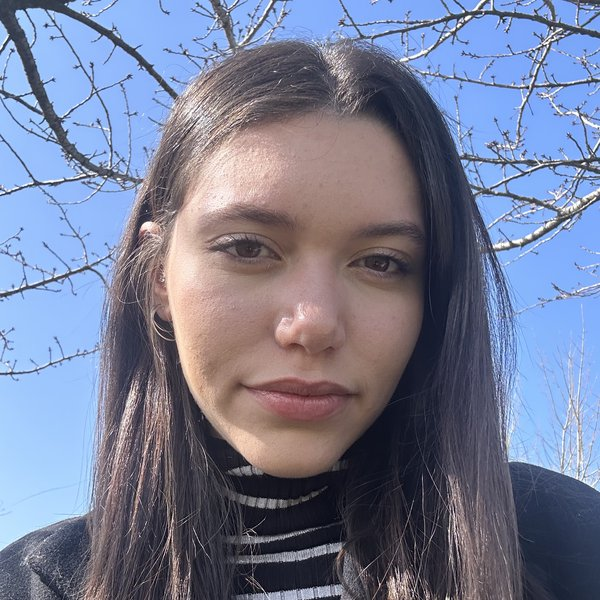
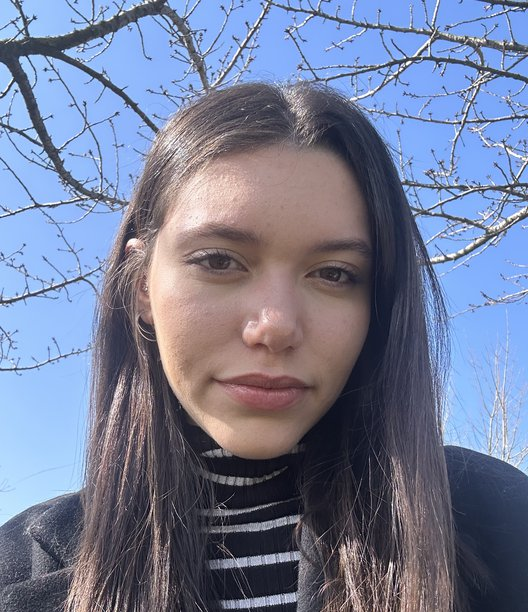
ui update

diff --git a/index.html b/index.html
@@ -3,120 +3,143 @@
 <head>
   <meta charset="utf-8">
   <meta name="viewport" content="width=device-width, initial-scale=1">
-  <title>Eylül Pelin Kılıç | Sabancı University</title>
-  <meta name="description" content="Eylül Pelin Kılıç is an undergraduate researcher at BAVLab, Sabancı University, supervised by Prof. Selim Balcısoy.">
+  <meta name="color-scheme" content="light dark">
+  <title>Eylül Pelin Kılıç | Computer Vision &amp; Machine Learning</title>
+  <meta name="description" content="Eylül Pelin Kılıç is a computer science undergraduate at Sabancı University working on 3D visual representations, personalized video understanding, and uncertainty in machine learning.">
+  <meta property="og:title" content="Eylül Pelin Kılıç | Research">
+  <meta property="og:description" content="Computer vision, visual representation learning, and machine learning. Research, education, and selected projects.">
+  <meta property="og:type" content="website">
   <link rel="icon" href="favicon.svg" type="image/svg+xml">
   <link rel="stylesheet" href="styles.css">
 </head>
-<body>
-  <main>
+<body id="top">
+  <a class="skip-link" href="#main">Skip to content</a>
+  <div class="page">
     <header class="profile">
-      <div>
+      <div class="identity">
+        <p class="eyebrow">Computer vision &amp; machine learning</p>
         <h1>Eylül Pelin Kılıç</h1>
-        <p>Hi! I am an undergraduate researcher at <a href="https://analyticslab.sabanciuniv.edu/"><strong>BAVLab</strong></a>, Sabancı University, supervised by <strong>Prof. Selim Balcısoy</strong>.</p>
-        <p>I am a fourth-year Computer Science and Engineering student at Sabancı University, with a minor in Mathematics. I am interested in computer vision, visual representation learning, and machine learning.</p>
-        <p>E-mail: pelin.kilic<strong>[at]</strong>sabanciuniv<strong>[dot]</strong>edu</p>
-        <nav class="contact" aria-label="Contact and profiles">
-          <a href="https://github.com/eylulpelinkilic">GitHub</a>
-          <a href="https://www.linkedin.com/in/eylulpelinkilic/">LinkedIn</a>
-          <a href="CV_Eylul_Pelin_Kilic.pdf">CV</a>
+        <p class="role">Undergraduate researcher</p>
+        <p class="affiliation"><a href="https://www.sabanciuniv.edu/en">Sabancı University</a><br>Computer Science &amp; Engineering · Mathematics minor</p>
+        <a class="email" href="mailto:pelin.kilic@sabanciuniv.edu">pelin.kilic@sabanciuniv.edu</a>
+        <nav class="social-links" aria-label="Contact and profiles">
+          <a class="pill" href="https://github.com/eylulpelinkilic"><svg viewBox="0 0 24 24" aria-hidden="true"><path d="m8 5-6 7 6 7m8-14 6 7-6 7M14 3l-4 18"/></svg>GitHub</a>
+          <a class="pill" href="https://www.linkedin.com/in/eylulpelinkilic/"><svg viewBox="0 0 24 24" aria-hidden="true"><rect x="3" y="3" width="18" height="18" rx="2"/><path d="M7 10v7m0-10v.1M11 17v-7m0 3c0-4 6-4 6 0v4"/></svg>LinkedIn</a>
+          <a class="pill cv-link" href="CV_Eylul_Pelin_Kilic.pdf" target="_blank" rel="noopener"><svg viewBox="0 0 24 24" aria-hidden="true"><path d="M14 3H5v18h14V8l-5-5v5h5M8 12h8m-8 4h6"/></svg>Curriculum vitae<span class="file-label">PDF</span></a>
         </nav>
       </div>
-      <img class="portrait" src="profile.jpg" alt="Eylül Pelin Kılıç" width="275" height="275">
+      <img class="portrait" src="profile.jpg" width="176" height="204" alt="Eylül Pelin Kılıç">
     </header>
 
-    <section>
-      <h2>News</h2>
-      <ul class="news">
-        <li><time>2026.05</time><span>Started as an Undergraduate Research Assistant at the University of Cambridge, advised by Prof. Cengiz Öztireli.</span></li>
-        <li><time>2026.05</time><span>Started as an Undergraduate Research Assistant at the National University of Singapore, advised by Prof. Angela Yao.</span></li>
-        <li><time>2026.01</time><span>Started my exchange semester at the National University of Singapore.</span></li>
-      </ul>
-      <details class="news-archive">
-        <summary>Older news</summary>
-        <ul class="news">
-          <li><time>2024.09</time><span>Became President of Google Developer Groups On Campus at Sabancı University.</span></li>
-          <li><time>2023.09</time><span>Selected as a Challenger by the Turkish Entrepreneurship Foundation (80 among 149,766 applicants).</span></li>
-        </ul>
-      </details>
-    </section>
+    <nav class="section-nav" aria-label="Page sections">
+      <a href="#about">About</a><a href="#research">Research</a><a href="#education">Education</a><a href="#teaching">Teaching</a><a href="#activities">Activities</a>
+    </nav>
 
-    <section>
-      <h2>Research</h2>
-      <ol class="research">
-        <li>
-          <img class="preview" src="clinical-uncertainty.svg" alt="" width="144" height="96">
-          <div>
-            <h3>Uncertainty representations for clinical machine learning</h3>
-            <p class="who">Advisor: Prof. Selim Balcısoy (BAVLab) · Siyami Ersek Cardiovascular Surgery Research Hospital</p>
-            <p class="what">ML pipelines for differentiating clinically overlapping cardiac conditions, with entropy-based uncertainty representations.</p>
-            <p class="when">2024 – Present</p>
-          </div>
-        </li>
-        <li>
-          <img class="preview" src="geometry-color.svg" alt="" width="144" height="96">
-          <div>
-            <h3>Geometry-aware representations for colored point clouds</h3>
-            <p class="who">Advisor: Prof. Cengiz Öztireli · University of Cambridge</p>
-            <p class="what">Representations that jointly model 3D structure and surface color in point clouds.</p>
-            <p class="when">May 2026 – Present</p>
-          </div>
-        </li>
-        <li>
-          <img class="preview" src="video-memory.svg" alt="" width="144" height="96">
-          <div>
-            <h3>Personalized video understanding</h3>
-            <p class="who">Advisor: Prof. Angela Yao · National University of Singapore</p>
-            <p class="what">Personalized VideoQA in online and streaming settings, with test-time adaptation and memory.</p>
-            <p class="when">May 2026 – Present</p>
-          </div>
-        </li>
-      </ol>
-    </section>
+    <main id="main">
+      <section id="about" aria-labelledby="about-heading">
+        <h2 id="about-heading">Biography</h2>
+        <div class="prose">
+          <p>I am a fourth-year Computer Science and Engineering undergraduate at <a href="https://www.sabanciuniv.edu/en">Sabancı University</a>, with a minor in Mathematics. My research interests lie in <strong>computer vision, visual representation learning, and machine learning</strong>.</p>
+          <p>I am an undergraduate researcher at <a href="https://analyticslab.sabanciuniv.edu/">BAVLab</a>, Sabancı University, supervised by <strong>Prof. Selim Balcısoy</strong>, working on uncertainty representations and machine learning for clinical decision support. I also work with Prof. Cengiz Öztireli at the University of Cambridge on geometry-aware representations for colored point clouds, and with Prof. Angela Yao at the National University of Singapore on personalized video understanding.</p>
+          <p>I am particularly interested in how geometry, appearance, and context can be brought together to learn useful visual representations.</p>
+        </div>
+      </section>
 
-    <section>
-      <h2>Selected course projects</h2>
-      <ul class="projects">
-        <li>
+      <section id="research" aria-labelledby="research-heading">
+        <h2 id="research-heading">Research experience</h2>
+        <div class="research-list">
+          <article class="research-item">
+            <img class="research-art" src="geometry-color.svg" width="420" height="280" alt="Conceptual illustration of a point cloud combining geometry and color">
+            <div class="research-content">
+              <div class="item-topline"><span class="institution">University of Cambridge</span><span class="date">May 2026 — Present</span></div>
+              <h3>Geometry-aware representations for colored point clouds</h3>
+              <p class="advisor">Undergraduate Research Assistant · Advisor: Prof. Cengiz Öztireli</p>
+              <p>Developing representations that jointly model 3D structure and surface color, with the aim of learning transferable geometry and appearance features across 3D vision tasks.</p>
+              <div class="keywords"><span>3D vision</span><span>Representation learning</span><span>Geometry &amp; color</span></div>
+            </div>
+          </article>
+          <article class="research-item">
+            <img class="research-art" src="video-memory.svg" width="420" height="280" alt="Conceptual illustration of video observations feeding a persistent memory">
+            <div class="research-content">
+              <div class="item-topline"><span class="institution">National University of Singapore</span><span class="date">May 2026 — Present</span></div>
+              <h3>Personalized video understanding</h3>
+              <p class="advisor">Undergraduate Research Assistant · Advisor: Prof. Angela Yao</p>
+              <p>Developing personalized VideoQA models for online and streaming settings. Investigating agentic test-time adaptation and memory mechanisms for user-specific, evolving video context.</p>
+              <div class="keywords"><span>Vision-language models</span><span>Streaming VideoQA</span><span>Memory</span></div>
+            </div>
+          </article>
+          <article class="research-item">
+            <img class="research-art" src="clinical-uncertainty.svg" width="420" height="280" alt="Conceptual illustration linking clinical observations, uncertainty, and decision support">
+            <div class="research-content">
+              <div class="item-topline"><span class="institution">Siyami Ersek Cardiovascular Surgery Research Hospital</span><span class="date">2024 — Present</span></div>
+              <h3>Uncertainty representations for clinical machine learning</h3>
+              <p class="advisor">Undergraduate Research Assistant · Advisor: Prof. Selim Balcısoy (BAVLab, Sabancı University)</p>
+              <p>Developed machine learning pipelines to distinguish clinically overlapping cardiac conditions. Designed entropy-based uncertainty representations and evaluated models through cross-validation and robustness analysis.</p>
+              <div class="keywords"><span>Uncertainty</span><span>Information theory</span><span>Clinical ML</span></div>
+            </div>
+          </article>
+        </div>
+      </section>
+
+      <section id="education" aria-labelledby="education-heading">
+        <h2 id="education-heading">Education</h2>
+        <div class="education-list">
+          <article class="education-item">
+            <div class="school-mark logo-mark su-mark" aria-hidden="true"><img src="sabanci.png" alt=""></div>
+            <div><h3>Sabancı University</h3><p>B.S. in Computer Science and Engineering</p><p class="detail">CGPA: <strong>3.92 / 4.00</strong> · Merit-Based Full Scholarship</p></div>
+            <p class="education-date">Sep. 2022 — Jun. 2027<br><span>Expected · Istanbul, Türkiye</span></p>
+          </article>
+          <article class="education-item">
+            <div class="school-mark math-mark" aria-hidden="true">∑</div>
+            <div><h3>Sabancı University</h3><p>Minor in Mathematics</p><p class="detail">CGPA: <strong>4.00 / 4.00</strong> · Top-ranked student in the minor cohort</p></div>
+            <p class="education-date">Sep. 2023 — Jun. 2027<br><span>Expected · Istanbul, Türkiye</span></p>
+          </article>
+          <article class="education-item">
+            <div class="school-mark logo-mark" aria-hidden="true"><img src="nus.png" alt=""></div>
+            <div><h3>National University of Singapore</h3><p>Exchange student</p><p class="detail">Computer Vision and Pattern Recognition, Information Theory,<br class="desktop-break"> Logic for Proofs and Programs</p></div>
+            <p class="education-date">Jan. — May 2026<br><span>Singapore</span></p>
+          </article>
+        </div>
+      </section>
+
+      <section id="projects" aria-labelledby="projects-heading">
+        <h2 id="projects-heading">Selected course projects</h2>
+        <article class="course-project">
+          <div class="item-topline"><span class="institution">CS419 · Digital Image and Video Processing</span><span class="date">Sep. 2025 — Jan. 2026</span></div>
           <h3>Morphology-based cell mitosis detection</h3>
-          <p class="who">CS419 · Digital Image and Video Processing · Sabancı University</p>
-          <p class="what">An unsupervised, label-free framework for detecting mitotic cells in DIC microscopy images, using morphology-based segmentation and an entropy-weighted mitosis score. Improved F1 from 0.67 to 0.87 over uniform weighting on <span class="nowrap">DIC-C2DH-HeLa</span>.</p>
-          <p class="when">Sep 2025 – Jan 2026</p>
-        </li>
-        <li>
+          <p>An unsupervised, label-free framework for detecting mitotic cells in DIC microscopy images. Combines morphology-based segmentation with an interpretable mitosis score using entropy-weighted shape and intensity features.</p>
+          <p class="result"><strong>F1: 0.67 → 0.87</strong><span>Entropy-based weighting vs. uniform weighting · DIC-C2DH-HeLa dataset</span></p>
+        </article>
+        <article class="course-project">
+          <div class="item-topline"><span class="institution">DSA210 · Introduction to Data Science</span><span class="date">Spring 2025</span></div>
           <h3>Deck composition and match outcome prediction</h3>
-          <p class="who">DSA210 · Introduction to Data Science · Sabancı University</p>
-          <p class="what">Collected 1,500 matches from 50 players of a competitive online strategy game through its public API and engineered ~350 deck-composition features (card presence, card-type counts, average resource cost). Hypothesis tests showed that lower average resource cost, card-type variety, and tank–support combinations are significantly associated with winning; compared regularized logistic regression, random forests, and gradient boosting, with and without PCA.</p>
-          <p class="when">Spring 2025</p>
-        </li>
-      </ul>
-    </section>
+          <p>Collected 1,500 matches from 50 players of a competitive online strategy game through its public API and engineered ~350 deck-composition features. Hypothesis tests showed that lower average resource cost, card-type variety, and tank–support combinations are significantly associated with winning. Compared regularized logistic regression, random forests, and gradient boosting, with and without PCA.</p>
+          <p class="result"><strong>p &lt; 0.001</strong><span>Lower average resource cost in winning matches · Mann–Whitney U test</span></p>
+        </article>
+      </section>
 
-    <section>
-      <details class="experience">
-        <summary>Experience &amp; education</summary>
-        <h3>Research &amp; work</h3>
-        <ul>
-          <li><img class="logo" src="sabanci.png" alt=""><div><strong>BAVLab, Sabancı University</strong> · Undergraduate Researcher<span class="dates">2024 – Present · Istanbul</span></div></li>
-          <li><span class="logo"></span><div><strong>University of Cambridge</strong> · Undergraduate Research Assistant<span class="dates">May 2026 – Present · Remote</span></div></li>
-          <li><img class="logo" src="nus.png" alt=""><div><strong>National University of Singapore</strong> · Undergraduate Research Assistant<span class="dates">May 2026 – Present · Remote</span></div></li>
-          <li><img class="logo" src="sabanci.png" alt=""><div><strong>Sabancı University</strong> · Learning Assistant (CS201, CS204, CS300)<span class="dates">2024 – 2025 · Istanbul</span></div></li>
-          <li><span class="logo"></span><div><strong>Mitsubishi Electric</strong> · Information Technologies Intern<span class="dates">Jul 2024 · Manisa</span></div></li>
-        </ul>
-        <h3>Education</h3>
-        <ul>
-          <li><img class="logo" src="sabanci.png" alt=""><div><strong>Sabancı University</strong> · B.S. Computer Science and Engineering, Minor in Mathematics<span class="dates">2022 – 2027 (expected) · Istanbul</span></div></li>
-          <li><img class="logo" src="nus.png" alt=""><div><strong>National University of Singapore</strong> · Exchange<span class="dates">Jan 2026 – May 2026 · Singapore</span></div></li>
-        </ul>
-        <h3>Activities</h3>
-        <ul>
-          <li><span class="logo"></span><div><strong>Google Developer Groups On Campus, Sabancı University</strong> · President<span class="dates">Sep 2024 – Jun 2025 · Istanbul</span></div></li>
-          <li><span class="logo"></span><div><strong>Turkish Entrepreneurship Foundation</strong> · Challenger<span class="dates">Sep 2023 – Jun 2024</span></div></li>
-        </ul>
-      </details>
-    </section>
+      <section id="teaching" aria-labelledby="teaching-heading">
+        <h2 id="teaching-heading">Teaching</h2>
+        <div class="dated-row"><p class="date">2024 — 2025</p><div><h3>Learning Assistant · Sabancı University</h3><p>CS201 — Introduction to Programming<br>CS204 — Advanced Programming<br>CS300 — Data Structures</p><p class="detail">Led recitations and mentored students on algorithm design, memory management, and complexity analysis.</p></div></div>
+      </section>
 
-    <footer>© 2026 Eylül Pelin Kılıç · Last updated November 2026</footer>
-  </main>
+      <section id="honors" aria-labelledby="honors-heading">
+        <h2 id="honors-heading">Honors &amp; distinctions</h2>
+        <ul class="honor-list">
+          <li><strong>Merit-Based Full Scholarship</strong><span>Sabancı University · Top 0.01% nationwide in the Turkish University Entrance Exam</span></li>
+          <li><strong>Top-ranked Mathematics minor student</strong><span>Sabancı University · CGPA 4.00 / 4.00</span></li>
+          <li><strong>Challenger fellowship</strong><span>Turkish Entrepreneurship Foundation · 80 selected among 149,766 applicants</span></li>
+        </ul>
+      </section>
+
+      <section id="activities" aria-labelledby="activities-heading">
+        <h2 id="activities-heading">Activities &amp; experience</h2>
+        <div class="dated-row"><p class="date">2024 — 2025</p><div><h3>President · Google Developer Groups On Campus</h3><p>Led the Sabancı University chapter and organized AI/ML workshops and developer events.</p></div></div>
+        <div class="dated-row"><p class="date">July 2024</p><div><h3>Information Technologies Intern · Mitsubishi Electric</h3><p>Automated reporting with Power Automate and Power BI, and built a mobile data-entry application integrated with SAP for factory operations.</p></div></div>
+        <div class="dated-row"><p class="date">August 2023</p><div><h3>Volunteer Instructor · Sri Lanka</h3><p>Taught mathematics and computing in a resource-constrained primary school.</p></div></div>
+      </section>
+    </main>
+    <footer><p>© 2026 Eylül Pelin Kılıç <span class="footer-separator">·</span> <span>Last updated November 2026</span></p><a href="#top">Back to top ↑</a></footer>
+  </div>
 </body>
 </html>

diff --git a/styles.css b/styles.css
@@ -1,56 +1,11 @@
-:root { font-family: Arial, Helvetica, sans-serif; color: #262626; background: #fff; font-size: 16px; line-height: 1.6; }
-* { box-sizing: border-box; }
-body { margin: 0; }
-main { max-width: 820px; margin: 64px auto 40px; padding: 0 28px; }
-a { color: #175a96; text-decoration: none; text-underline-offset: 3px; }
-a:hover { text-decoration: underline; }
-h1 { margin: 0 0 20px; font-size: 30px; font-weight: 500; line-height: 1.2; }
-h2 { margin: 0 0 16px; font-size: 21px; font-weight: 500; line-height: 1.3; }
-h3 { font-size: 16px; margin: 24px 0 8px; }
-p { margin: 0 0 14px; }
-strong { font-weight: 600; }
-ul, ol { padding: 0; margin: 0; list-style: none; }
-section { margin: 0 0 34px; }
-
-/* Header */
-.profile { display: grid; grid-template-columns: minmax(0, 1fr) 275px; align-items: start; gap: 32px; margin-bottom: 42px; }
-.portrait { display: block; width: 275px; height: 275px; object-fit: cover; border-radius: 2px; margin-top: 4px; }
-.contact { display: flex; flex-wrap: wrap; gap: 6px 16px; font-size: 15px; }
-
-/* News */
-.news li { display: grid; grid-template-columns: 76px minmax(0, 1fr); gap: 12px; margin-bottom: 9px; font-size: 15px; }
-time { color: #666; font-variant-numeric: tabular-nums; }
-summary { width: fit-content; cursor: pointer; color: #175a96; }
-.news-archive { margin-top: 12px; font-size: 14px; }
-.news-archive[open] summary { margin-bottom: 14px; }
-
-/* Research */
-.research li { display: grid; grid-template-columns: 144px minmax(0, 1fr); gap: 22px; align-items: center; margin-bottom: 25px; }
-.preview { display: block; width: 144px; height: auto; border-radius: 3px; }
-.research h3, .projects h3 { margin: 0 0 4px; line-height: 1.45; }
-.research p, .projects p { margin: 0 0 2px; font-size: 14px; }
-.who { color: #494949; }
-.when { font-style: italic; }
-
-/* Course projects */
-.projects li { margin-bottom: 22px; }
-.nowrap { white-space: nowrap; }
-
-/* Experience */
-.experience { font-size: 15px; }
-.experience > summary { font-size: 18px; }
-.experience li { display: flex; align-items: center; gap: 14px; margin-bottom: 16px; }
-.logo { flex: 0 0 64px; width: 64px; height: 40px; object-fit: contain; }
-.dates { display: block; color: #666; font-size: 14px; }
-
-footer { border-top: 1px solid #e5e5e5; padding-top: 18px; margin-top: 40px; font-size: 14px; color: #737373; }
-
-@media (max-width: 600px) {
-  main { margin-top: 32px; padding: 0 22px; }
-  .profile { grid-template-columns: 1fr; gap: 22px; }
-  .portrait { grid-row: 1; width: 200px; height: 200px; }
-  h1 { font-size: 28px; }
-  .news li { grid-template-columns: 65px minmax(0, 1fr); gap: 8px; }
-  .research li { grid-template-columns: 104px minmax(0, 1fr); gap: 16px; align-items: start; }
-  .preview { width: 104px; }
-}
+:root{color-scheme:light dark;--background:#fbfaf8;--text:#24262c;--muted:#626875;--accent:#315a8d;--line:#e1e2e3;--surface:#fff;--soft:#eff3f7;--serif:Georgia,'Times New Roman',serif;--sans:Inter,-apple-system,BlinkMacSystemFont,'Segoe UI',Arial,sans-serif}
+*{box-sizing:border-box}html{scroll-behavior:smooth;scroll-padding-top:24px}body{margin:0;background:var(--background);color:var(--text);font:15px/1.7 var(--sans);-webkit-font-smoothing:antialiased}a{color:var(--accent);text-decoration:none}a:hover{text-decoration:underline;text-underline-offset:4px}a:focus-visible{outline:2px solid var(--accent);outline-offset:5px;border-radius:3px}::selection{background:#d6e4f5;color:#153558}p{margin:0 0 12px}strong{font-weight:600}.page{max-width:960px;padding:76px 32px 30px;margin:auto}.skip-link{position:absolute;left:16px;top:-80px;padding:8px 16px;background:var(--surface);z-index:10}.skip-link:focus{top:16px}
+.profile{display:flex;justify-content:space-between;align-items:center;gap:44px}.identity{min-width:0}.eyebrow{color:var(--accent);font-size:10px;letter-spacing:.17em;text-transform:uppercase;font-weight:600;margin-bottom:15px}h1{font-family:var(--serif);font-size:clamp(32px,5.2vw,45px);font-weight:500;line-height:1.18;letter-spacing:-1.1px;margin:0 0 10px}.role{font-size:14px;color:var(--muted);margin-bottom:17px}.affiliation{font-size:14px;line-height:1.7;margin-bottom:6px}.affiliation a{color:var(--text);font-weight:500}.email{font-size:13px;overflow-wrap:anywhere}.portrait{width:176px;height:204px;flex-shrink:0;object-fit:cover;border-radius:12px;border:1px solid var(--line)}.social-links{display:flex;flex-wrap:wrap;gap:8px;margin-top:20px}.pill{display:inline-flex;align-items:center;gap:7px;border:1px solid var(--line);border-radius:20px;padding:5px 11px;background:var(--surface);font-size:12px;color:var(--text);transition:background .2s,border-color .2s}.pill:hover{background:var(--soft);border-color:var(--accent);text-decoration:none}.pill svg{width:13px;height:13px;stroke:currentColor;stroke-width:1.6;fill:none;stroke-linecap:round;stroke-linejoin:round}.file-label{font-size:9px;color:var(--muted);letter-spacing:.05em}.section-nav{display:flex;flex-wrap:wrap;gap:12px 27px;padding:20px 0;margin-top:39px;border-top:1px solid var(--line);border-bottom:1px solid var(--line)}.section-nav a{font-size:12px;color:var(--muted)}.section-nav a:hover{color:var(--accent)}
+section{margin-top:43px}h2{display:flex;align-items:center;gap:19px;font:600 11px/1.4 var(--sans);text-transform:uppercase;letter-spacing:.16em;color:var(--muted);margin:0 0 22px}h2::after{content:'';height:1px;background:var(--line);flex:1}h3{font-family:var(--serif);font-weight:500;font-size:19px;line-height:1.4;margin:0 0 7px}.prose p{font-size:14.5px;line-height:1.85;margin-bottom:14px}.prose a{text-decoration:underline;text-decoration-color:#a5b9d1;text-underline-offset:3px}.research-list{display:grid;gap:29px}.research-item{display:grid;grid-template-columns:195px minmax(0,1fr);gap:25px;align-items:start}.research-item+.research-item{padding-top:27px;border-top:1px solid var(--line)}.research-art{display:block;width:100%;height:auto;border-radius:9px;border:1px solid var(--line);margin-top:3px}.research-content p{font-size:13px;line-height:1.75;margin-bottom:9px}.item-topline{display:flex;flex-wrap:wrap;justify-content:space-between;gap:3px 12px;margin-bottom:8px}.institution{font-size:11px;color:var(--accent);font-weight:600}.date{font-size:11px;color:var(--muted);font-variant-numeric:tabular-nums}.research-content .advisor{font-size:11px;color:var(--muted);line-height:1.65}.keywords{display:flex;flex-wrap:wrap;gap:4px 7px;margin-top:12px}.keywords span{font-size:10px;color:var(--accent);background:var(--soft);padding:2px 8px;border-radius:4px}
+.education-item{display:grid;grid-template-columns:47px minmax(0,1fr) auto;gap:18px;align-items:center;padding:17px 0}.education-item:first-child{padding-top:0}.education-item+.education-item{border-top:1px solid var(--line)}.school-mark{height:47px;width:47px;display:grid;place-items:center;background:var(--surface);border:1px solid var(--line);border-radius:9px;font:18px var(--serif);color:var(--accent)}.math-mark{font-size:25px}.nus-mark{font-size:13px;color:#9b6135}.education-item h3{font:600 14px/1.5 var(--sans);margin-bottom:2px}.education-item p{font-size:13px;margin-bottom:2px}.education-item .detail{font-size:11px;color:var(--muted)}.education-item .education-date{text-align:right;font-size:11px;color:var(--muted);white-space:nowrap}.education-date span{font-size:10px}.course-project p{font-size:13px;line-height:1.8}.result{display:flex;flex-wrap:wrap;align-items:center;gap:6px 17px;margin-top:15px;padding:11px 15px;border-left:2px solid var(--accent);background:var(--soft)}.result strong{color:var(--accent);white-space:nowrap;font-size:15px}.result span{font-size:11px;color:var(--muted)}.dated-row{display:grid;grid-template-columns:101px minmax(0,1fr);gap:20px;padding:17px 0}.dated-row:first-of-type{padding-top:0}.dated-row+.dated-row{border-top:1px solid var(--line)}.dated-row>.date{padding-top:3px}.dated-row h3{font:600 13px/1.6 var(--sans);margin-bottom:4px}.dated-row p{font-size:13px;line-height:1.8;margin-bottom:5px}.dated-row .date{font-size:11px}.detail{color:var(--muted)}.dated-row .detail{font-size:12px;margin-top:9px}.honor-list{list-style:none;margin:0;padding:0}.honor-list li{padding:11px 0}.honor-list li:first-child{padding-top:0}.honor-list li+li{border-top:1px solid var(--line)}.honor-list strong{display:block;font-size:13px}.honor-list span{display:block;color:var(--muted);font-size:12px;margin-top:1px}footer{display:flex;flex-wrap:wrap;justify-content:space-between;gap:9px;margin-top:58px;border-top:1px solid var(--line);padding-top:18px;color:var(--muted);font-size:10px}footer p{margin:0}.footer-separator{margin:0 7px}footer a{color:var(--muted)}
+@media(prefers-color-scheme:dark){:root{--background:#14171b;--text:#ebeae6;--muted:#a8adb7;--accent:#9abceb;--line:#30353e;--surface:#1d2229;--soft:#202c3c}.research-art{opacity:.87}.portrait{opacity:.9}.nus-mark{color:#ddae86}}
+@media(max-width:720px){.page{padding:40px 23px 25px}.profile{gap:22px}.portrait{width:130px;height:155px}h1{font-size:34px}.eyebrow{font-size:9px}.affiliation{font-size:12px}.role{font-size:13px}.research-item{grid-template-columns:155px minmax(0,1fr);gap:18px}.education-item{grid-template-columns:44px minmax(0,1fr)}.education-item .education-date{grid-column:2;text-align:left;margin-top:-11px}.education-date br{display:none}.education-date span::before{content:' · '}.section-nav{gap:11px 22px}.desktop-break{display:none}}
+@media(max-width:520px){.profile{align-items:flex-start;gap:16px}.identity{flex:1}.portrait{width:74px;height:86px;margin-top:22px;border-radius:8px}.eyebrow{font-size:8px;letter-spacing:.09em;max-width:235px}h1{font-size:30px;letter-spacing:-.7px}.affiliation{font-size:12px}.email{font-size:11px}.social-links{gap:6px}.pill{font-size:11px;padding:5px 9px}.file-label{display:none}.section-nav{margin-top:29px;gap:9px 20px;padding:15px 0}.section-nav a{font-size:11px}.research-item{grid-template-columns:1fr;gap:16px}.research-art{width:100%;max-height:185px;object-fit:cover}.research-list{gap:23px}.research-item+.research-item{padding-top:23px}.research-content h3{font-size:20px}.prose p{font-size:14px}section{margin-top:35px}.dated-row{grid-template-columns:1fr;gap:2px}.dated-row .date{margin-bottom:4px}footer{margin-top:40px}.footer-separator{margin:0 3px}}
+@media(prefers-reduced-motion:reduce){html{scroll-behavior:auto}*{transition:none!important}}
+@media print{:root{--background:white;--text:#111;--muted:#444;--line:#ddd;--accent:#234c78;--surface:white;--soft:#f5f5f5}.page{padding:0;max-width:none}.section-nav,.skip-link,footer>a{display:none}.profile{margin-bottom:20px}.portrait{width:115px;height:133px}section{margin-top:25px}.research-item,.education-item,.dated-row{break-inside:avoid}.research-art{width:150px}.research-item{grid-template-columns:150px 1fr}.research-content p{font-size:11px}.prose p{font-size:12px}h2{break-after:avoid}footer{margin-top:25px}}
+.logo-mark{padding:5px;overflow:hidden;background:#fff}.logo-mark img{display:block;width:100%;height:100%;object-fit:contain}.su-mark{background:#004288;border-color:#004288;padding:3px}.course-project+.course-project{margin-top:27px;padding-top:27px;border-top:1px solid var(--line)}

diff --git a/README.md b/README.md
@@ -5,10 +5,10 @@ Published by GitHub Pages from the `main` branch (root folder) at https://eylulp
 
 ## Editing
 
-- **Text, news, research, experience:** `index.html`
+- **Text, research, education, projects:** `index.html`
 - **Styles:** `styles.css`
-- **Photo:** replace `profile.jpg` (square JPEG; browsers cannot show HEIC).
-- **Logos:** `sabanci.png`, `nus.png`, shown in the Experience & education list.
+- **Photo:** replace `profile.jpg` (portrait JPEG, about 528×612; browsers cannot show HEIC).
+- **Logos:** `sabanci.png`, `nus.png`, shown in the Education section.
 - **CV:** replace `CV_Eylul_Pelin_Kilic.pdf`, keeping the filename.
 
 The research thumbnails (`*.svg`) are conceptual illustrations, not experiment outputs.
